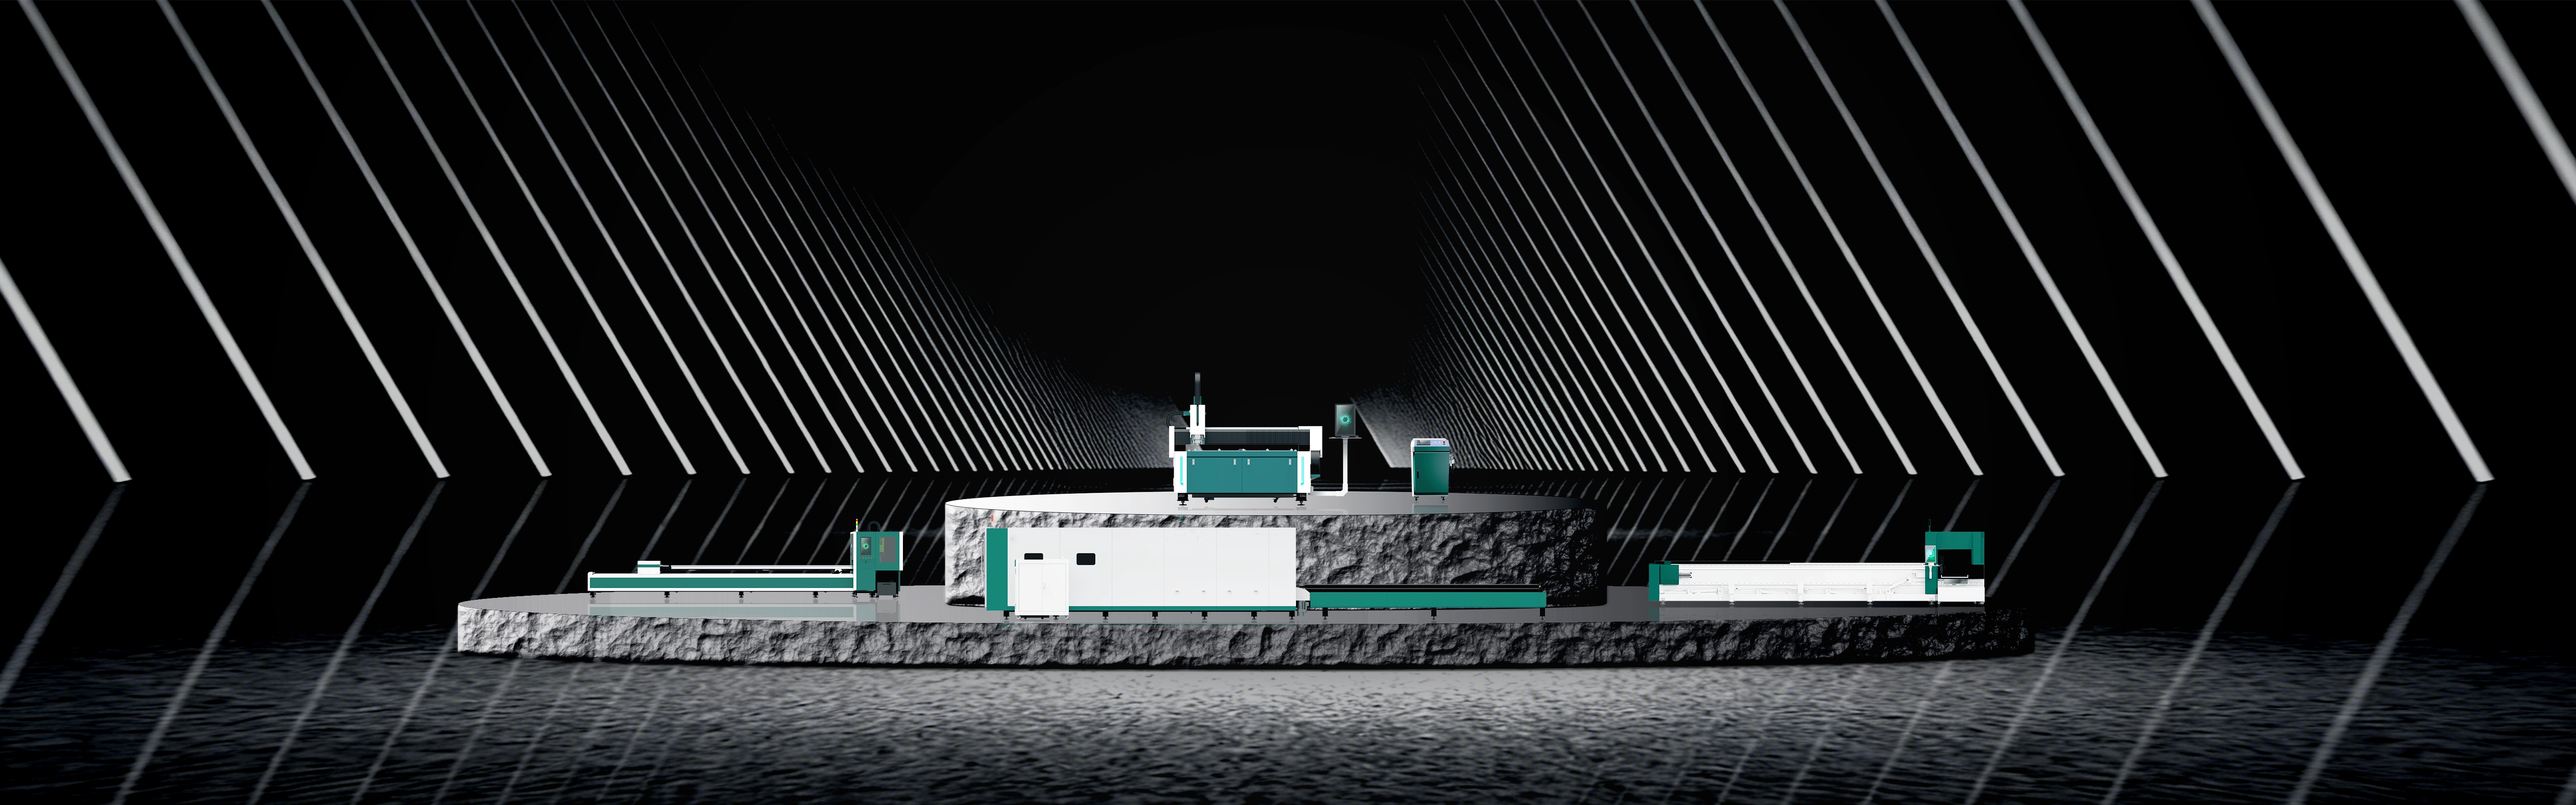
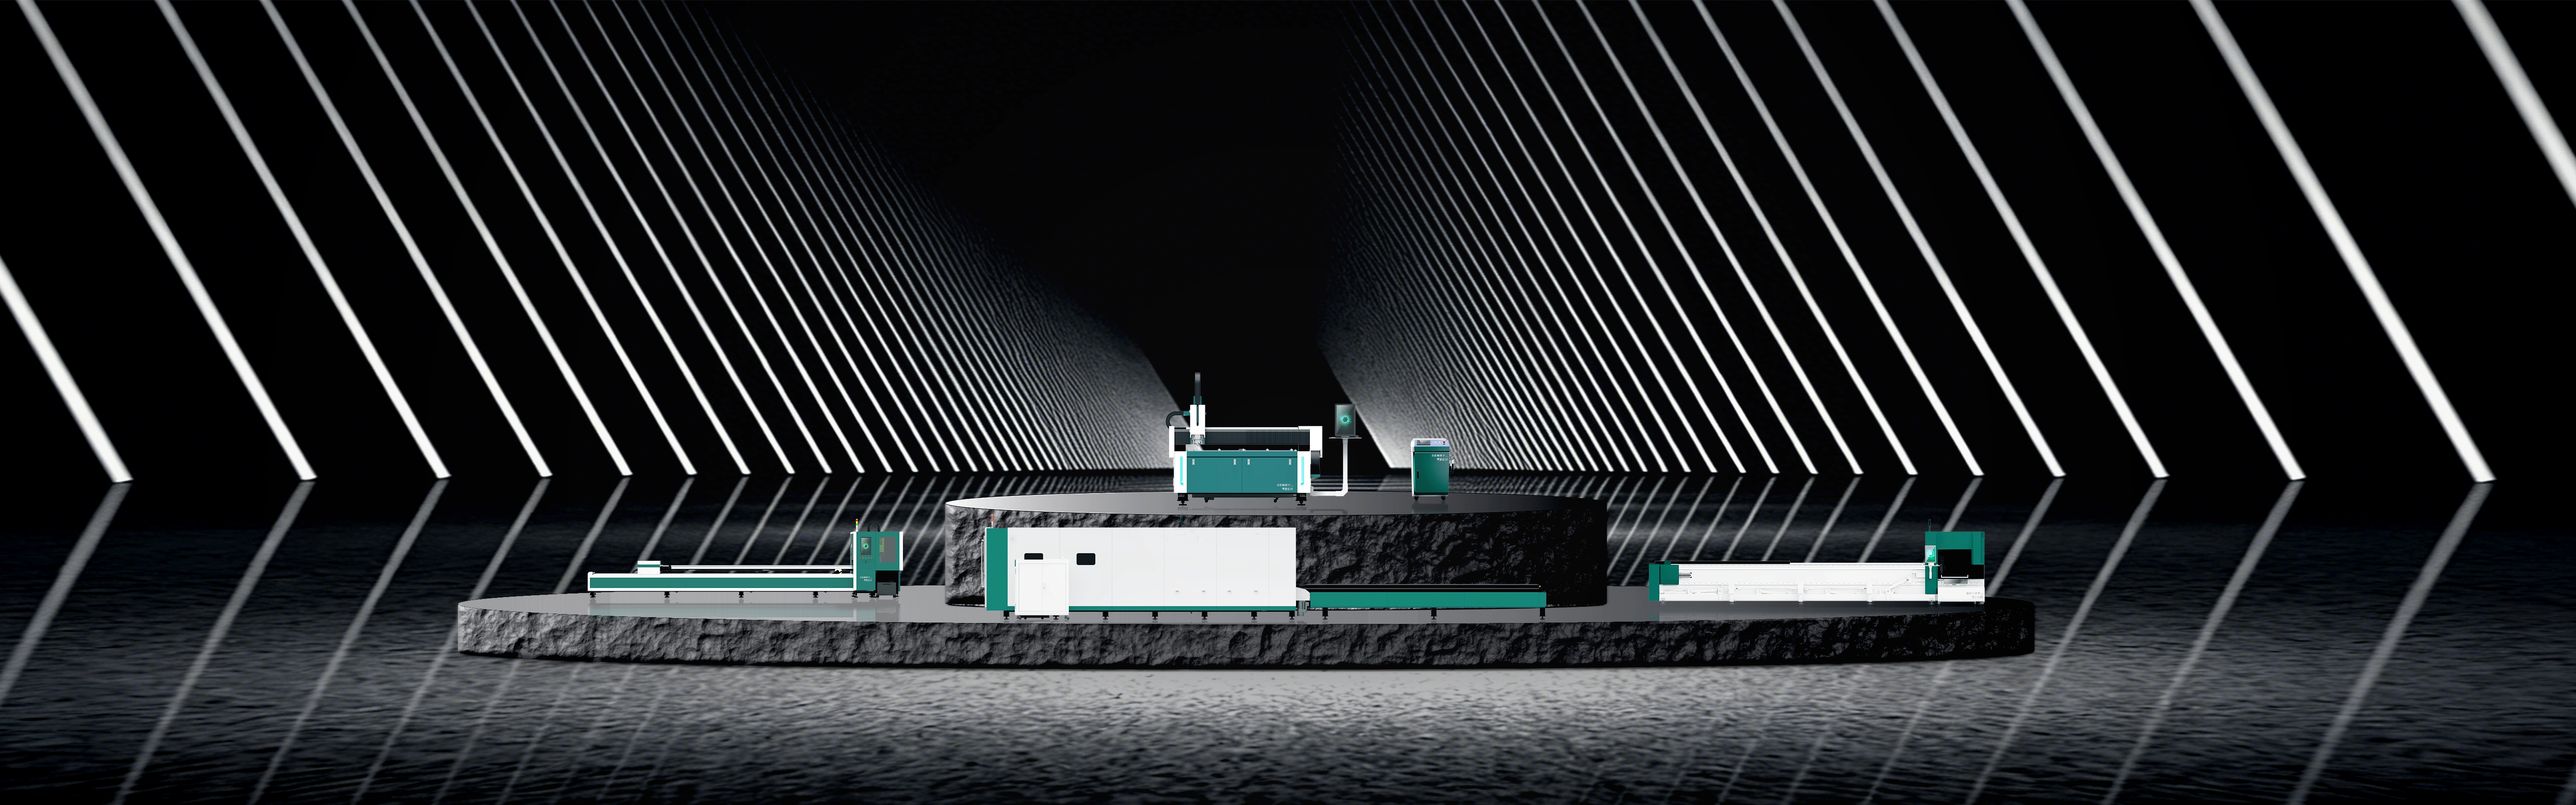
1

diff --git a/index.html b/index.html
@@ -7429,8 +7429,8 @@
             alt="Senrytech光纤激光机"
           />
           <div class="banner-text active">
-            <h1>Senrytech · 激光切割与焊接</h1>
-            <h2>不赚品牌溢价，只赚服务与风控的钱</h2>
+            <h1>Senrytech · 工业激光切割与焊接设备</h1>
+            <h2>拒绝品牌溢价，专注服务与风险管控</h2>
             <p>严选配置 | 全程质检 | 全球交付 | 售后保障</p>
             <div class="banner-btns">
               <!-- 关键修改：button → a，添加href，保留所有样式类 -->
@@ -7455,7 +7455,7 @@
             alt="Senrytech A 小型企业光纤激光切割机"
           />
           <div class="banner-text">
-            <h1>板材激光切割机</h1>
+            <h1>激光板材切割机</h1>
             <h2>Senrytech A・精准切割・高效赋能</h2>
             <p>CE/ISO 9001认证 | 原厂核心配件 | 24小时技术支持</p>
             <div class="banner-btns">
@@ -7481,9 +7481,9 @@
             alt="Senrytech B Ultra 全自动上下料激光切割机"
           />
           <div class="banner-text">
-            <h1>全自动上下料激光切割机</h1>
-            <h2>Senrytech B Ultra・智能联动・从上下料到仓储</h2>
-            <p>适配智能工厂 | 无缝拓展物流仓储系统 | 24 小时无人值守高效生产</p>
+            <h1>激光管材切割机</h1>
+            <h2>Senrytech A2 Ultra・全新侧置结构・大口径管材夹持</h2>
+            <p>两卡盘夹持 | 最高550mm管径 | 最长上料12米</p>
             <div class="banner-btns">
               <!-- 跳转至具体产品页面（替换为你的实际页面路径） -->
               <a
@@ -7503,7 +7503,7 @@
         <!-- 第4张BANNER图：了解更多 → 指向「手持激光焊接机 详情页」（示例用锚点） -->
         <div class="carousel-slide">
           <img
-            src="./img/index/banner/banner-3-2032-1143.webp"
+            src="./img/index/banner/senrytech-laser-machine-banner-4-final.webp"
             alt="Senrytech A 手持入门级激光焊接机"
           />
           <div class="banner-text">
